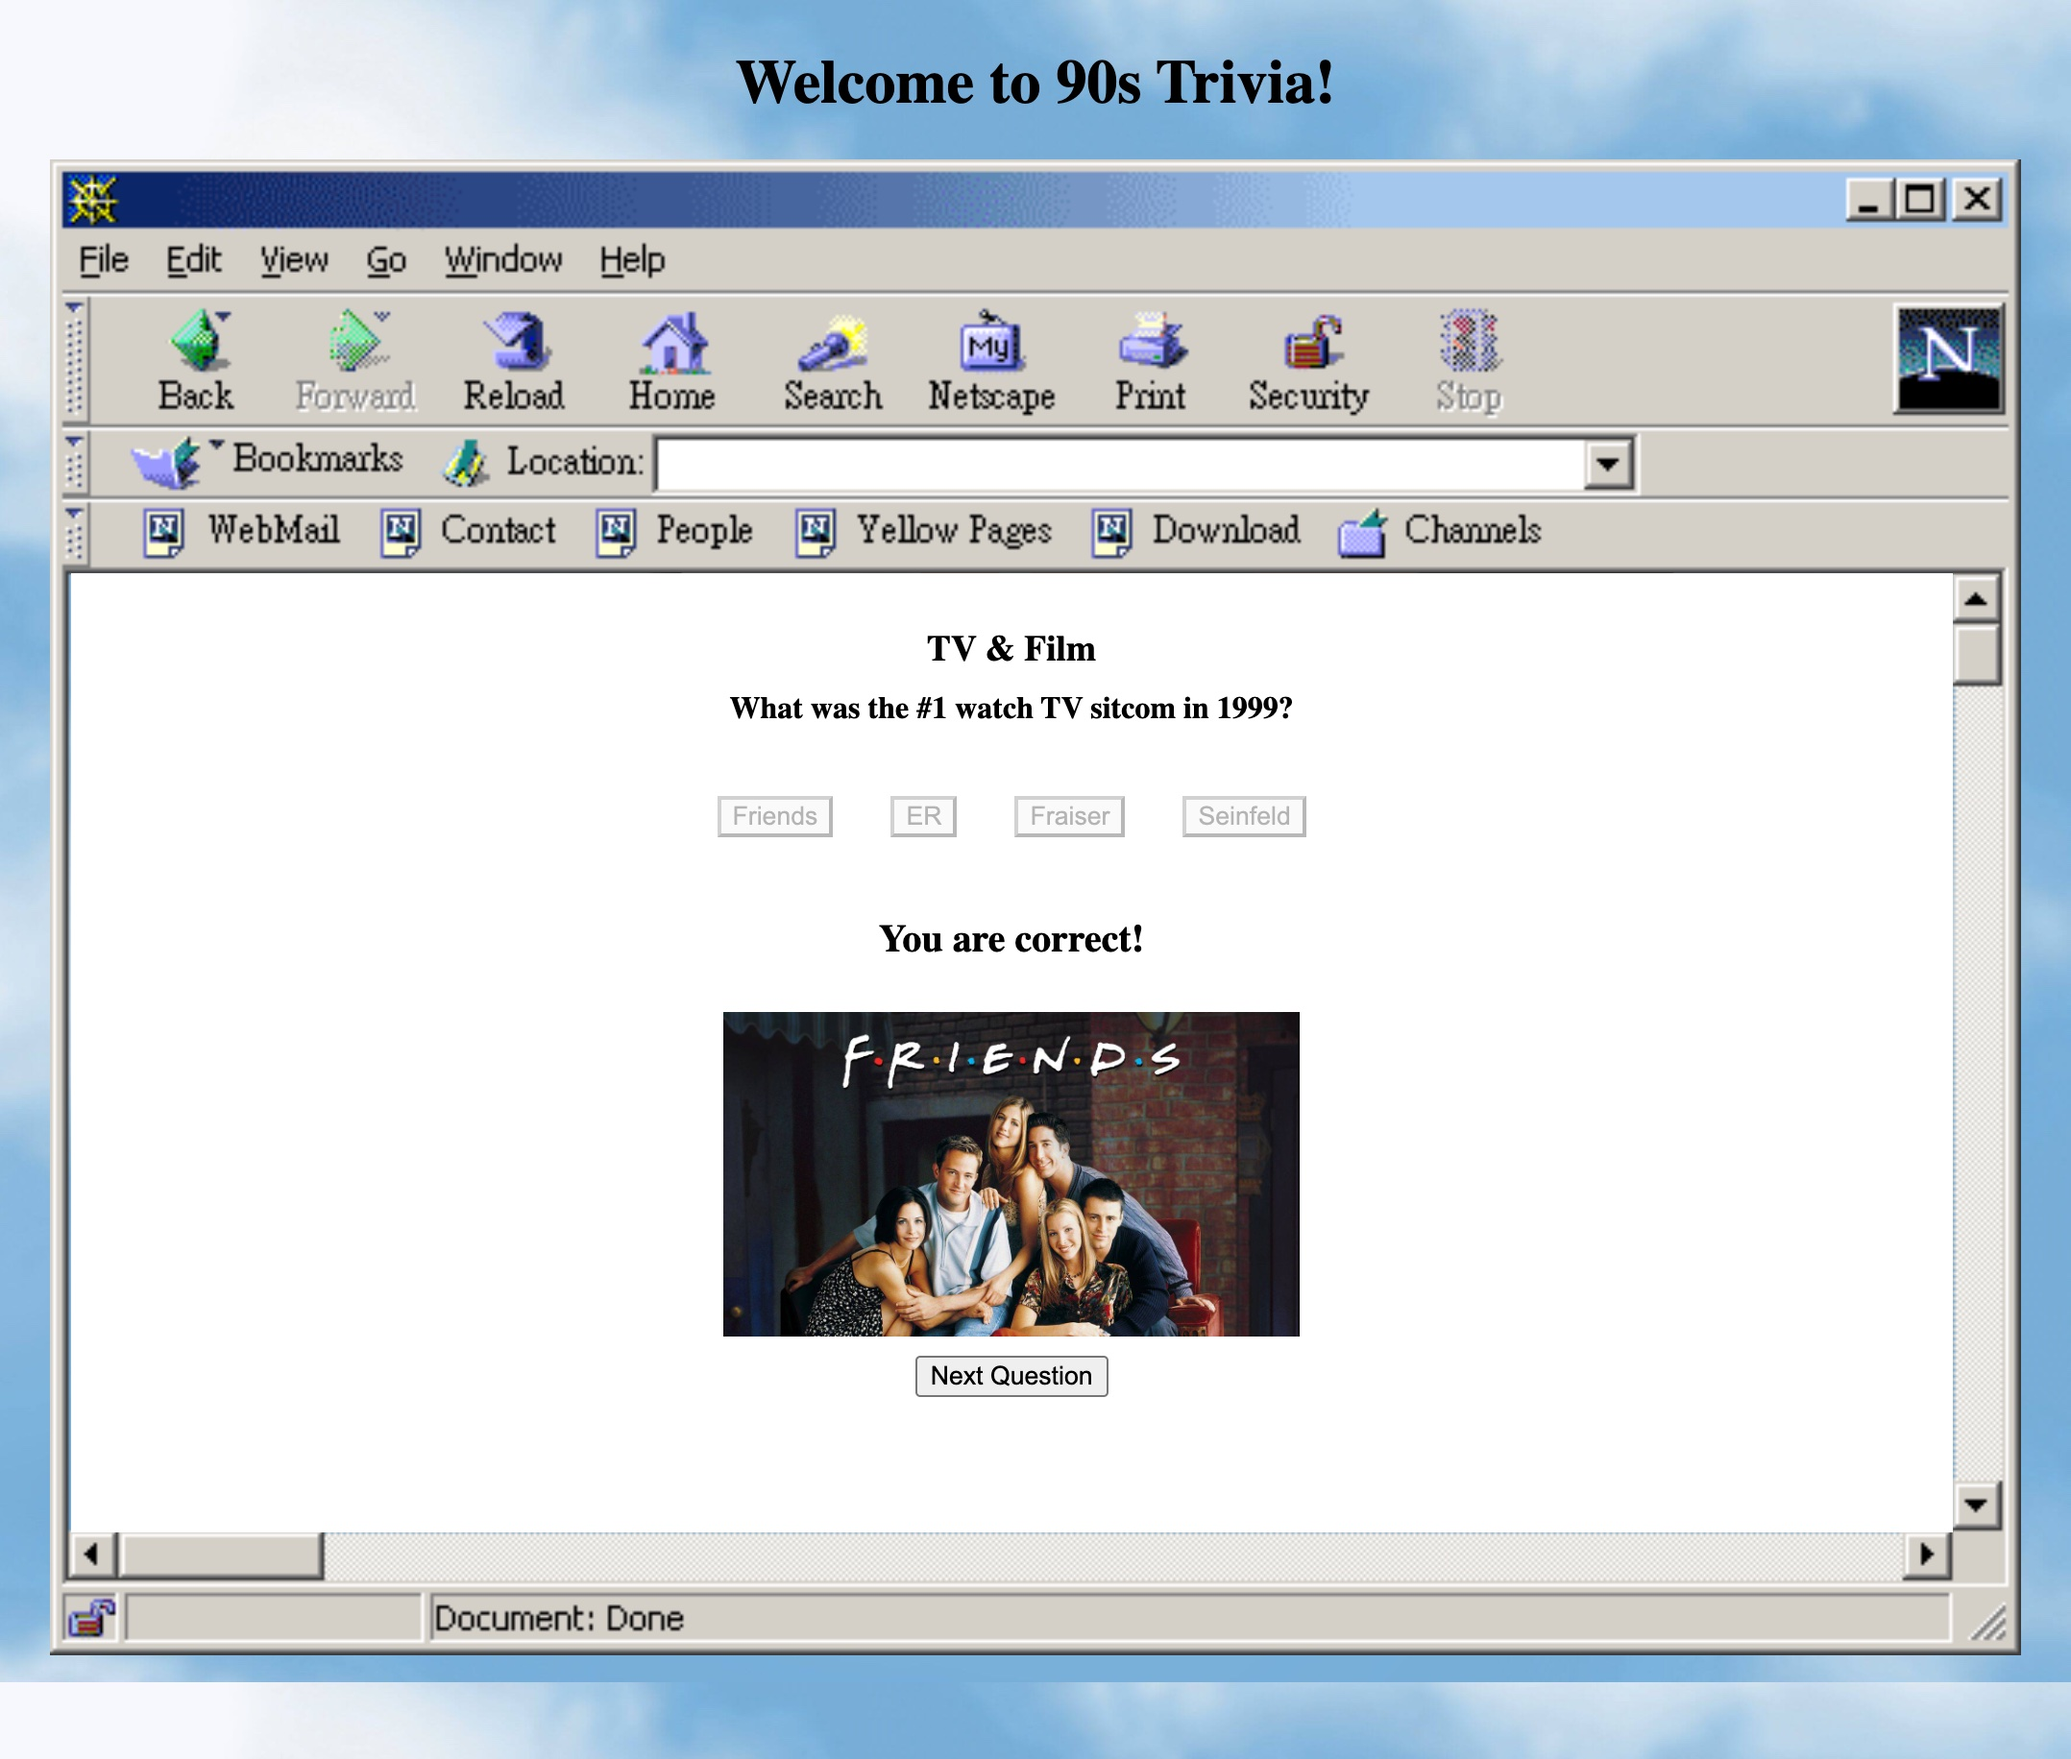
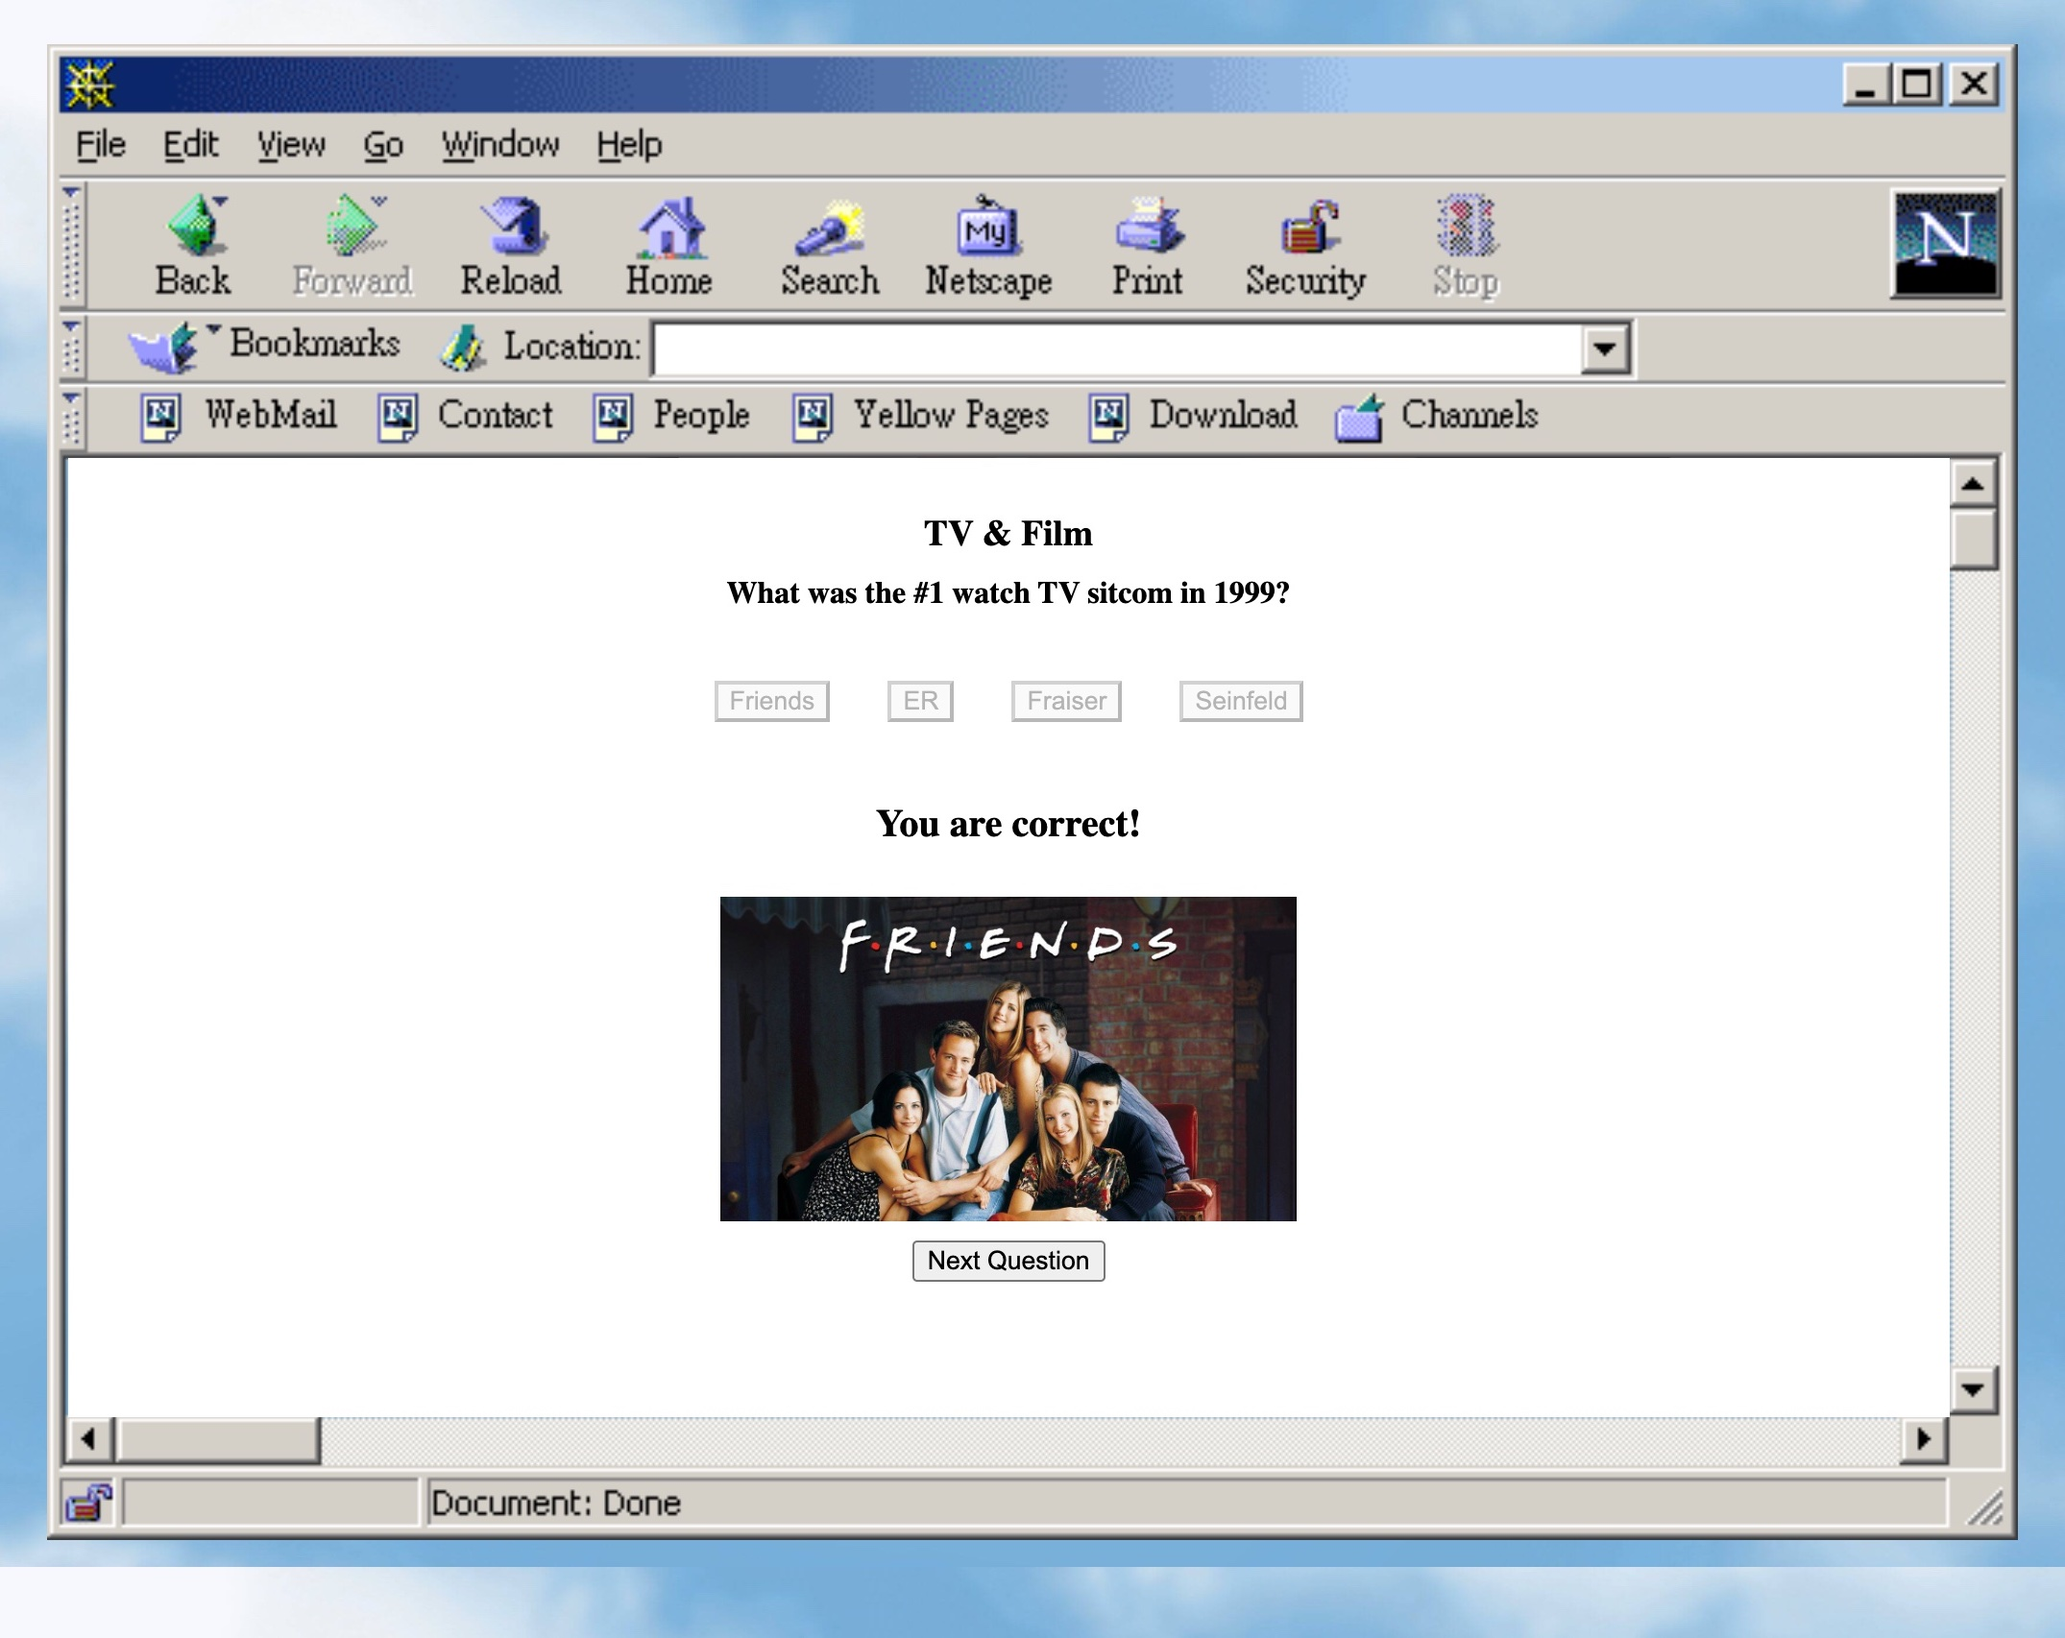
styling divs, edit commented out code in JS, update screenshot

diff --git a/css/style.css b/css/style.css
@@ -57,26 +57,24 @@ background-size: cover;
 #game-content {
   display: flex;
   flex-direction: column;
-  height: 28vh;
-  width: 90.7vw;
-  position: absolute;
-  top: 20vh;
-  left: 4.5vw;
+  padding: 20vh;
+  /* height: 45vh;
+  width: 90vw; */
+  /* position: absolute; */
+  /* top: 20vh;
+  left: 30vw; */
+  /* background-image: url(../assets/images/netscapenoalpha.jpg); */
+  /* background-size: contain;
+  background-repeat: no-repeat; */
 }
 
 #game-content-wrapper {
-  display: flex;
-  /* gap: 10px; */
-  flex-direction: column;
-  /* text-align: center; */
   background-image: url(../assets/images/netscapenoalpha.jpg);
-  justify-content: center;
-  margin: auto;
   background-size: contain;
   background-repeat: no-repeat;
-  height: 60vh;
+  margin: auto;
+  height: 80vh;
   width: 80vw;
-  /* background-color: red; */
 }
 
 #timer-content {

diff --git a/index.html b/index.html
@@ -33,6 +33,7 @@
 			<div class="body-container" id="answer-container"></div>
       <div id="next-question"></div>
 		</div>
+		<div id="game-content-background"></div>
   </div>
 		<div id="final-score"></div>
 		<div id="reset-button"></div>

diff --git a/js/app.js b/js/app.js
@@ -102,7 +102,6 @@ function renderNextBtn() {
 
 function setCategory() {
 	category = getCategory(categoryIndex)
-	//call setQuestion(0) 
 }
 
 function renderCategory() {
